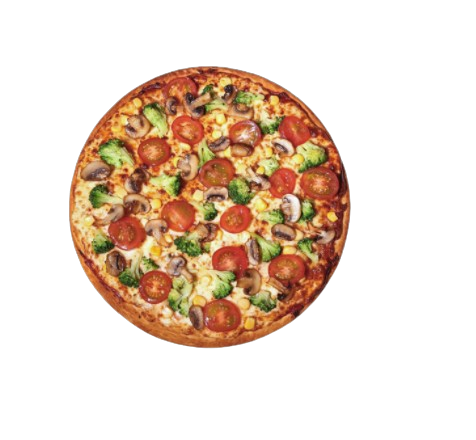
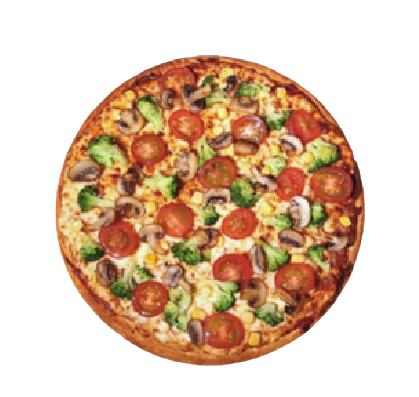
add pizza menu

diff --git a/src/app/components/pizzaitem/style.module.scss b/src/app/components/pizzaitem/style.module.scss
@@ -1,0 +1,141 @@
+.PizzaItem {
+            display: flex;
+            flex-direction: column;
+            align-items: center;
+            justify-content: center;
+            width: min-content;
+            position: relative;
+            padding-inline: 55px;
+
+            >h2 {
+                color: rgb(255, 255, 255);
+                font-size: 25.1px;
+                font-weight: 500;
+                line-height: 109.5%;
+                margin-block: 20px;
+            }
+
+            >p {
+                color: rgb(163, 163, 163);
+                font-size: 14.32px;
+                font-weight: 400;
+                line-height: 109.5%;
+            }
+
+            >span {
+                margin-block: 20px;
+                display: flex;
+                flex-direction: row;
+                align-items: center;
+                justify-content: center;
+                flex-wrap: nowrap;
+                gap: 37px;
+
+                >p {
+                    border: 1.5px solid rgb(163, 163, 163);
+                    border-radius: 100px;
+                    padding: 10px;
+                    color: rgb(163, 163, 163);
+                    font-size: 14.32px;
+                    font-weight: 400;
+                    line-height: 109.5%;
+                }
+            }
+
+            >button {
+                border-radius: 84.37px;
+                padding-block: 11px;
+                width: 100%;
+            }
+
+            >.Ingridients {
+                background: linear-gradient(215.37deg, rgb(255, 89, 36), rgb(255, 162, 41));
+
+                -webkit-background-clip: text;
+                -webkit-text-fill-color: transparent;
+                background-clip: text;
+                text-fill-color: transparent;
+                font-size: 16.08px;
+                font-weight: 400;
+                line-height: 109.5%;
+
+                border: 3px solid rgb(255, 94, 42);
+            }
+
+            >div:not(.background) {
+                margin-block: 20px;
+                display: flex;
+                flex-direction: row;
+                align-items: center;
+                justify-content: space-between;
+                flex-wrap: nowrap;
+                width: 100%;
+
+                >p {
+                    color: rgb(255, 255, 255);
+                    font-size: 25.46px;
+                    font-weight: 500;
+                    line-height: 109.5%;
+                    letter-spacing: 0%;
+                }
+
+                >span {
+                    display: flex;
+                    flex-direction: row;
+                    align-items: center;
+                    justify-content: center;
+                    flex-wrap: nowrap;
+
+                    >p {
+                        color: rgb(163, 163, 163);
+                        font-size: 22.82px;
+                        font-weight: 400;
+                        line-height: 109.5%;
+                        margin-inline: 13px;
+                    }
+
+                    >button {
+                        border-radius: 100px;
+                        border: 1px solid rgb(163, 163, 163);
+                        padding: 2px 7px 3px 7px;
+                        background: rgba(0, 0, 0, 0);
+                        color: rgb(163, 163, 163);
+                        font-size: 17.66px;
+                        font-weight: 400;
+                        line-height: 109.5%;
+                        letter-spacing: 0%;
+
+                        &:nth-of-type(1) {
+                            padding: 2px 9px 3px 9px;
+                        }
+
+                        &:nth-of-type(2) {
+                            padding: 2px 7px 3px 7px;
+                        }
+                    }
+                }
+            }
+
+            >.Order {
+                box-shadow: 0px 7.59px 33.75px 0px rgba(255, 107, 0, 0.06);
+                background: linear-gradient(215.37deg, rgb(255, 89, 36) 12.907%, rgb(255, 162, 41) 85.852%);
+
+                color: rgb(255, 255, 255);
+                font-size: 17.45px;
+                font-weight: 500;
+                line-height: 109.5%;
+                letter-spacing: 0%;
+            }
+
+            >.background {
+                position: absolute;
+                width: 100%;
+                transform: translateY(13%);
+                height: 85%;
+                border-radius: 29.53px;
+                background: rgb(33, 10, 1);
+                z-index: -1;
+            }
+
+
+        }

diff --git a/src/app/components/menu/menu.tsx b/src/app/components/menu/menu.tsx
@@ -1,6 +1,8 @@
 "use client";
 
 import { useState } from 'react';
+import { StaticImageData } from 'next/image';
+import Image from 'next/image'
 import styles from './style.module.scss'
 import meat from '../../../source/img/pizzas/meat.png'
 import Tomato from '../../../source/img/pizzas/Tomato.png'
@@ -10,16 +12,57 @@ import argentina from '../../../source/img/pizzas/argentina.png'
 import cheese from '../../../source/img/pizzas/cheese.png'
 import italian from '../../../source/img/pizzas/italian.png'
 import venecia from '../../../source/img/pizzas/venecia.png'
-
-
+import banner from '../../../source/img/pizzas/banner.png'
+import PizzaItem from '../pizzaitem/pizzaitem';
 export default function Menu() {
-    const categories:string[] = ['Show All', 'Meat', 'Vegetarian', 'Sea products', 'Mushroom'] 
-    const pizzas
+    const categories: string[] = ['Show All', 'Meat', 'Vegetarian', 'Sea products', 'Mushroom']
+
+    class Pizza {
+        name: string
+        img: StaticImageData
+        price: number
+
+        constructor(name: string, img: StaticImageData, price: number) {
+            this.name = name
+            this.img = img
+            this.price = price
+
+        }
+    }
+
+    const pizzas: Pizza[] = [
+        new Pizza('Meat', meat, 8.35),
+        new Pizza('Tomato', Tomato, 7.35),
+        new Pizza('Gribnaya', Gribnaya, 9.35),
+        new Pizza('Italian x2', Italian_x2, 8.35),
+    ]
+
+    const mostpopularpizzas: Pizza[] = [
+        new Pizza('Argentina', argentina, 7.35),
+        new Pizza('Cheese', cheese, 6.35),
+        new Pizza('Italian', italian, 7.35),
+        new Pizza('Venecia', venecia, 8.35)
+    ]
+
+
     const [selected, setselected] = useState<number>(0)
     return (
         <div className={styles.parent}>
+            <p className={styles.bgmenu}>Menu</p>
+            <p className={styles.bgmenu}>Menu</p>
+            <p className={styles.bgmenu}>Menu</p>
             <h1>Menu</h1>
-            <div className={styles.categories}>{categories.map((v,i) => (<button onClick={() => setselected(i)} key={i} className={ i == selected ? styles.selected : ''}>{v}</button>)) }</div>
+            <div className={styles.categories}>{categories.map((v, i) => (<button onClick={() => setselected(i)} key={i} className={i == selected ? styles.selected : ''}>{v}</button>))}</div>
+            <div className={styles.pizzas}>{pizzas.map((v, i) => (
+                <PizzaItem key={i} name={v.name} img={v.img} price={v.price} />
+            ))}</div>
+            <span className={styles.banner}>
+                <h1>Most Popular Pizza</h1>
+                <Image src={banner} alt="" />
+            </span>
+            <div className={styles.pizzas}>{mostpopularpizzas.map((v, i) => (
+                <PizzaItem key={i} name={v.name} img={v.img} price={v.price} />
+            ))}</div>
         </div>
     )
 }

diff --git a/src/app/components/menu/style.module.scss b/src/app/components/menu/style.module.scss
@@ -3,12 +3,12 @@
     flex-direction: column;
     justify-content: center;
 
-    h1 {
+    >h1 {
         font-size: 69.17px;
         font-weight: 800;
         line-height: 109.5%;
         letter-spacing: 0%;
-        margin-bottom: 49px;
+
         color: rgb(255, 255, 255);
         margin-inline: auto;
     }
@@ -17,7 +17,9 @@
         display: flex;
         flex-direction: row;
         flex-wrap: nowrap;
+        justify-content: center;
         gap: 24px;
+        margin-block: 49px 55px;
 
         >button {
             border-radius: 100px;
@@ -37,6 +39,73 @@
             &.selected {
                 background: linear-gradient(215.37deg, rgb(255, 89, 36) 12.595%, rgb(255, 162, 41) 86.194%);
             }
+        }
+    }
+
+    .pizzas {
+        display: flex;
+        flex-direction: row;
+        flex-wrap: wrap;
+        justify-content: center;
+        gap: 22px;
+    }
+
+    >.banner {
+        width: 100%;
+        position: relative;
+        border-radius: 29.53px;
+        margin-block: 55px;
+
+        >img {
+            width: 100%;
+            height: auto;
+            border-radius: 29.53px;
+        }
+
+        >h1 {
+            position: absolute;
+            top: 50%;
+            left: 50%;
+            transform: translate(-50%, -50%);
+            color: rgb(255, 255, 255);
+            font-size: 43.86px;
+            font-weight: 500;
+            line-height: 108.5%;
+            letter-spacing: 0%;
+            text-align: center;
+        }
+    }
+
+    .bgmenu {
+        position: absolute;
+        z-index: -1;
+        color: rgb(0, 0, 0);
+        font-family: Alex Brush;
+        font-size: 209.87px;
+        font-weight: 400;
+        line-height: 109.5%;
+        letter-spacing: 0%;
+        text-align: left;
+
+        text-shadow:
+            -.5px -.5px 0 #331905,
+            .5px -.5px 0 #331905,
+            -.5px .5px 0 #331905,
+            .5px .5px 0 #331905;
+
+        &:nth-of-type(1) {
+            left: 21px;
+            top: 1102px;
+        }
+
+        &:nth-of-type(2) {
+            left: 23px;
+            top: 2039px;
+        }
+
+        &:nth-of-type(3) {
+            right: 22px;
+            top: 1626px;
         }
     }
 }

diff --git a/src/app/components/pizzaitem/pizzaitem.tsx b/src/app/components/pizzaitem/pizzaitem.tsx
@@ -1,0 +1,21 @@
+import { StaticImageData } from "next/image"
+import Image from "next/image";
+import styles from './style.module.scss'
+
+export default function PizzaItem(v: { name: string, img: StaticImageData, price: number }) {
+    return (
+        <div className={styles.PizzaItem}>
+            <div className={styles.background}></div>
+            <Image width={200} height={200} src={v.img} alt="" />
+            <h2>{v.name}</h2>
+            <p>Filling: onion, potato, tomato, mushrooms, cheese, olives, meat...</p>
+            <span>{[22, 28, 33].map(v1 => (<p>{v1}</p>))}</span>
+            <button className={styles.Ingridients}>+ Ingridients</button>
+            <div>
+                <p><sup>$</sup>{v.price}</p>
+                <span><button>-</button><p>1</p><button>+</button></span>
+            </div>
+            <button className={styles.Order}>Order Now</button>
+        </div>
+    )
+}

diff --git a/src/app/globals.css b/src/app/globals.css
@@ -16,7 +16,7 @@
 
 html,
 body {
-  overflow-x: hidden;
+  overflow-x: clip;
   max-width: 100vw;
   font-family: 'Muller', sans-serif;
 }
